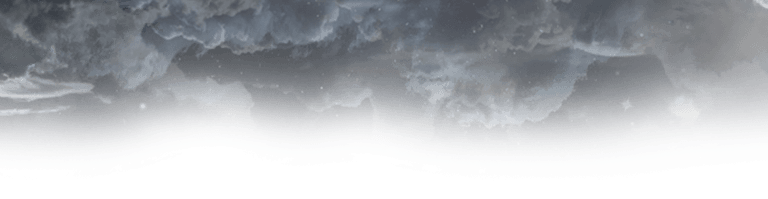
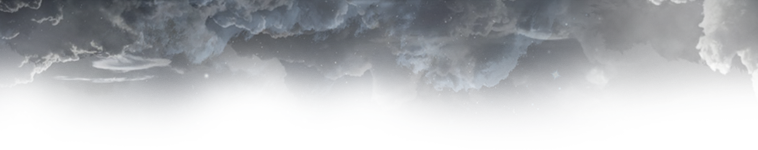
переделал графику, добавил variable.less

diff --git a/src/less/style.less b/src/less/style.less
@@ -1,4 +1,5 @@
-@import "scaffolding.less";
-@import "blocks/header.less";
-@import "blocks/footer.less";
+@import "./variable.less";
+@import "./scaffolding.less";
+@import "./blocks/header.less";
+@import "./blocks/footer.less";
 @import "./blocks/bdCanvas.less";

diff --git a/src/less/blocks/header.less b/src/less/blocks/header.less
@@ -1,3 +1,8 @@
-header {
-  display: block;
+.header {
+  min-height: 70px;
+  background-image: url(../img/bg_head.png);
+  background-repeat: no-repeat;
+  background-size: auto 70px;
+
+  color: @text-color-light;
 }

diff --git a/src/less/variable.less b/src/less/variable.less
@@ -1,5 +1,5 @@
 // colors
-@text-color-light: #f7f6ff;
+@text-color-light: #ffffff;
 
 // @media
 // min-width/max-width
